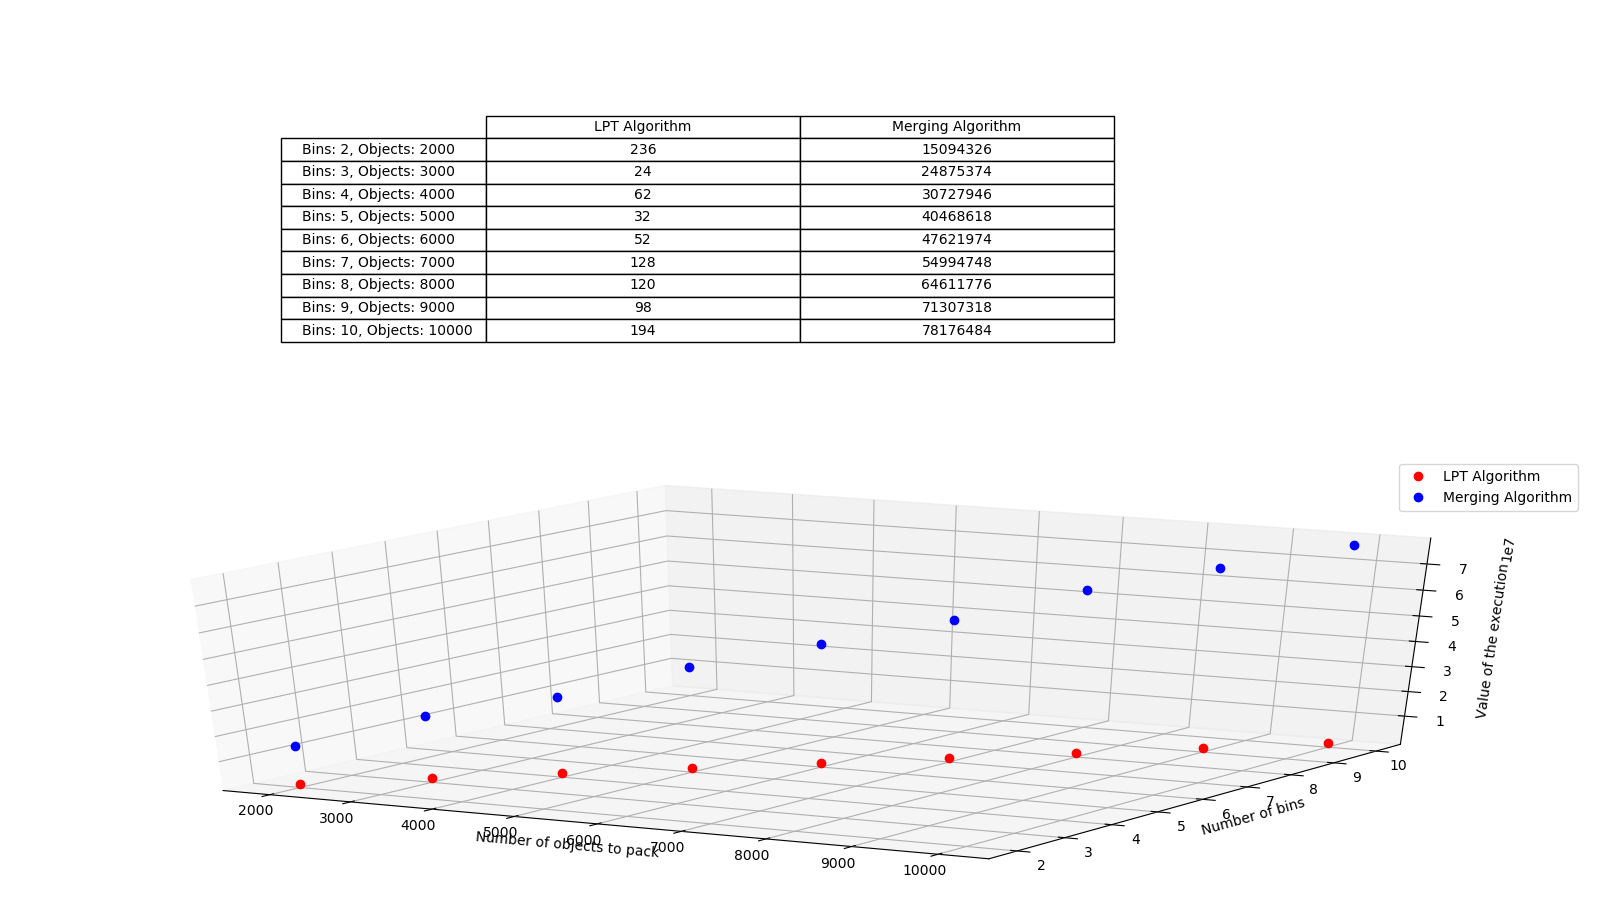
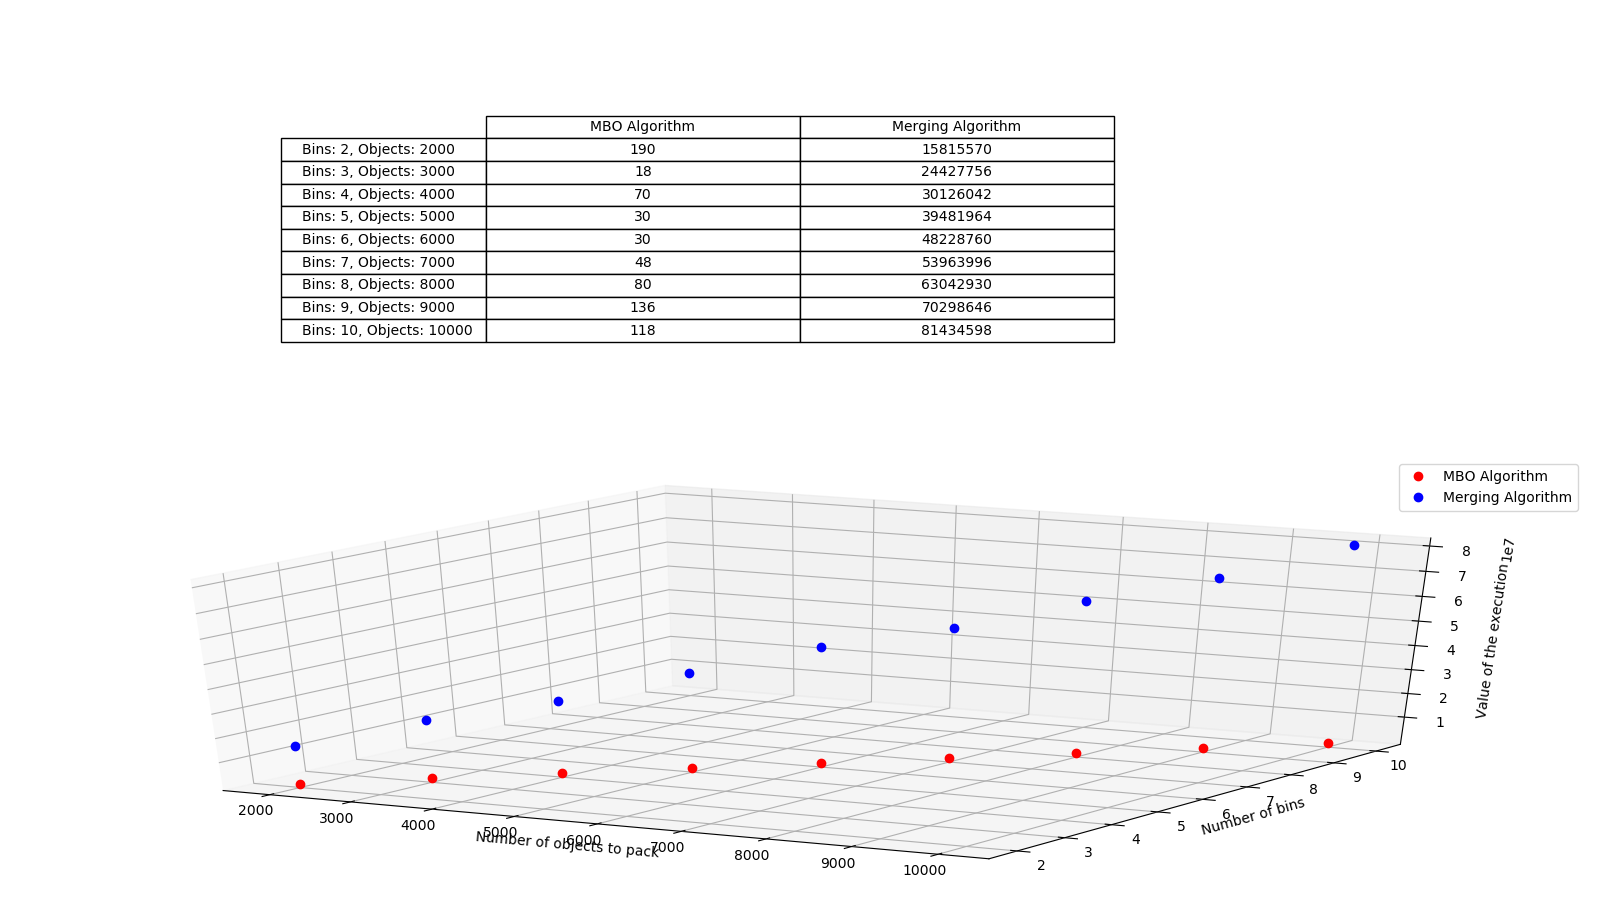
Last last fixes

diff --git a/Thesis/Chapters/Chapter03.tex b/Thesis/Chapters/Chapter03.tex
@@ -180,19 +180,19 @@ Di seguito varie immagini raffiguranti gli esiti degli esperimenti basati su ist
 \end{figure}
 
 \subsection{Interpretazione}
-Ciò che si nota a primo impatto dai risultati degli esperimenti è che l'algoritmo con euristica LPT, su istanze generate in modo casuale, dà sempre un risultato
+Ciò che si nota a primo impatto dai risultati degli esperimenti è che l'algoritmo con euristica MBO, su istanze generate in modo casuale, dà sempre un risultato
 di gran lunga migliore rispetto all'algoritmo con euristica di merging sugli oggetti in ogni caso.\\
-È possibile notare come al crescere del numero di oggetti rispetto al numero di bins, fissato l'intervallo di generazione, l'algoritmo LPT migliora sempre la 
+È possibile notare come al crescere del numero di oggetti rispetto al numero di bins, fissato l'intervallo di generazione, l'algoritmo MBO migliora sempre la 
 propria soluzione (visibile analizzando questi esperimenti: \hyperref[sec:Exp1]{\underline{Figura 1}}, \hyperref[sec:Exp2]{\underline{Figura 2}}, 
 \hyperref[sec:Exp3]{\underline{Figura 3}}) arrivando addirittura a disporli perfettamente all'interno dei contenitori senza il minimo spreco o eccesso di spazio. Al
 contrario l'algoritmo di merging ha un comportamento opposto, ovvero peggiora sempre la propria soluzione.\\
 Inoltre si nota come prendendo un intervallo più grande di generazione (\hyperref[sec:Exp5]{\underline{Figura 5}}, \hyperref[sec:Exp6]{\underline{Figura 6}}) 
-l'algoritmo LPT non dispone sempre perfettamente gli oggetti nei contenitori ma dà comunque risultati migliori rispetto a quello di merging.
+l'algoritmo MBO non dispone sempre perfettamente gli oggetti nei contenitori ma dà comunque risultati migliori rispetto a quello di merging.
 
 
 \section{Conclusioni}
 Dopo aver effettuato i vari esperimenti ed analizzato i dati si può concludere dicendo che in generale, se gli oggetti hanno taglie "varie" e quindi l'istanza del problema
-non ha una particolare forma, l'algoritmo LPT dà risultati migliori rispetto a quello di merging. Quindi poiché la complessità temporale asintotica è praticamente
+non ha una particolare forma, l'algoritmo MBO dà risultati migliori rispetto a quello di merging. Quindi poiché la complessità temporale asintotica è praticamente
 la stessa si può affermare che conviene utilizzare il primo algoritmo menzionato in quanto ci darà una soluzione nettamente migliore rispetto al secondo.\\
 È comunque da tenere in considerazione la natura dell'istanza, in quanto ce ne potrebbero essere alcune per cui gli algoritmi danno la stessa soluzione, oppure per cui la
 "distanza" tra le due soluzioni non sia così grande come si vede dagli esperimenti, o che addirittura, come visto in precedenza, producano quella ottima.

diff --git a/Thesis/Chapters/Chapter02.tex b/Thesis/Chapters/Chapter02.tex
@@ -49,7 +49,7 @@ Una possibile formulazione come un problema di programmazione lineare intera è 
 Di seguito verranno illustrati due algoritmi di approssimazione che risolvono il problema del Bin Packing con bins estendibili 
 dei quali verrà analizzato il comportamento da un punto di vista sperimentale nel prossimo capitolo.
 
-\subsection{Algoritmo con euristica LPT}
+\subsection{Algoritmo con euristica MBO}
 Il primo algoritmo utilizza un'euristica nota per i problemi di scheduling multiprocessore, l'euristica Longest Processing Time, ovvero
 quella secondo cui si assegnano i job alle risorse in base al loro tempo di esecuzione, precisamente vengono assegnati in ordine non decrescente di 
 tempo di esecuzione alla risorsa più "libera" al fine di minimizzare il \textit{makespan}, ovvero il massimo tempo di utilizzo totale di una risorsa tra le varie.
